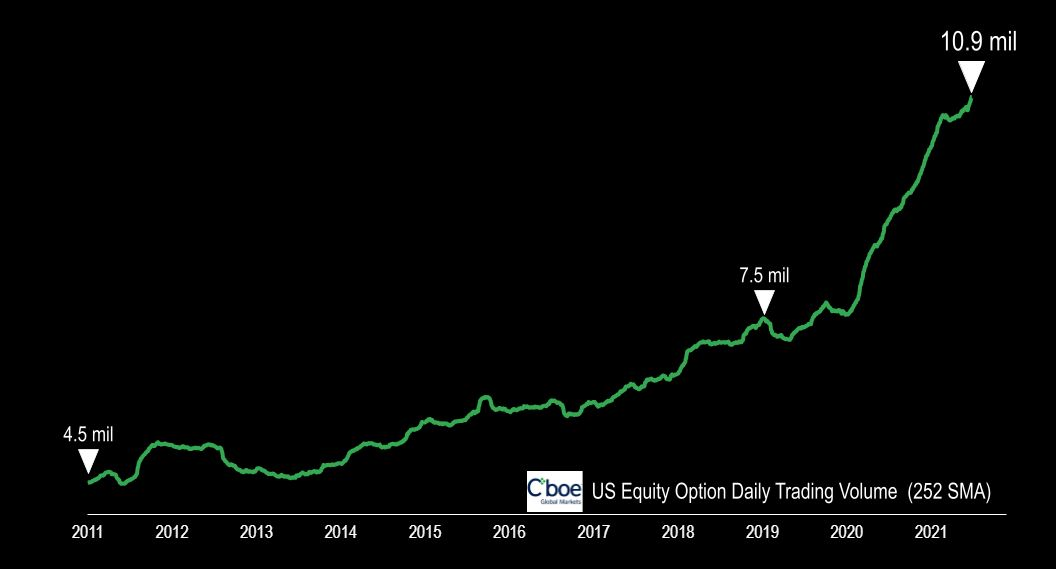
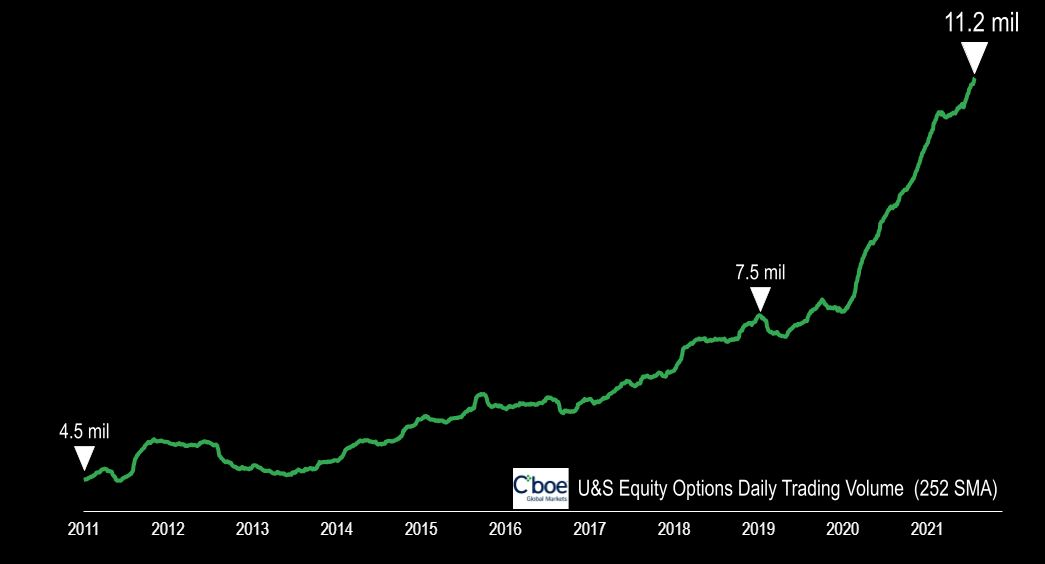
updated cboe activity charts as of 08-23-2021

diff --git a/index.html b/index.html
@@ -104,7 +104,7 @@
         </div>
       </div>
       <div class="marketing-image">
-        <img src="images/cboe_vol_2021_07.JPG"/>
+        <img src="images/cboe_vol_2021_08.JPG"/>
       </div>	  
     </div>
 
